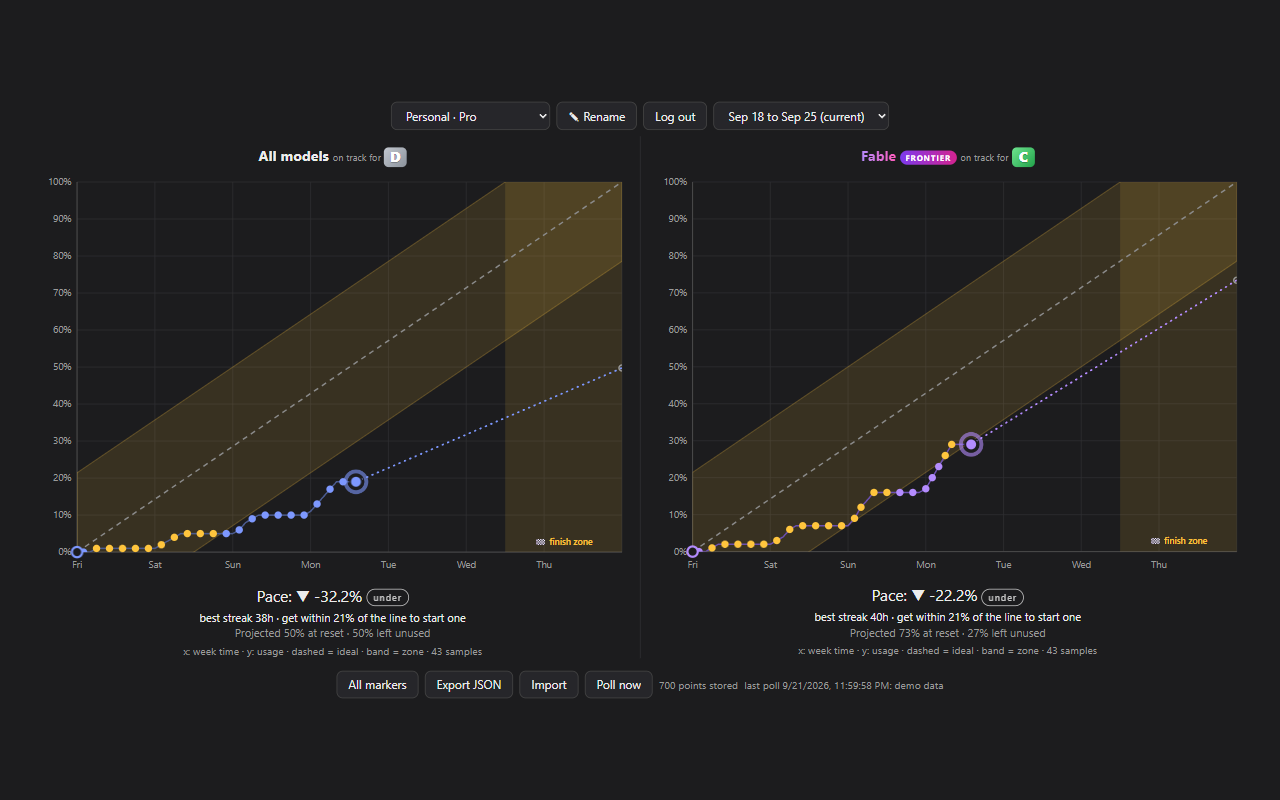
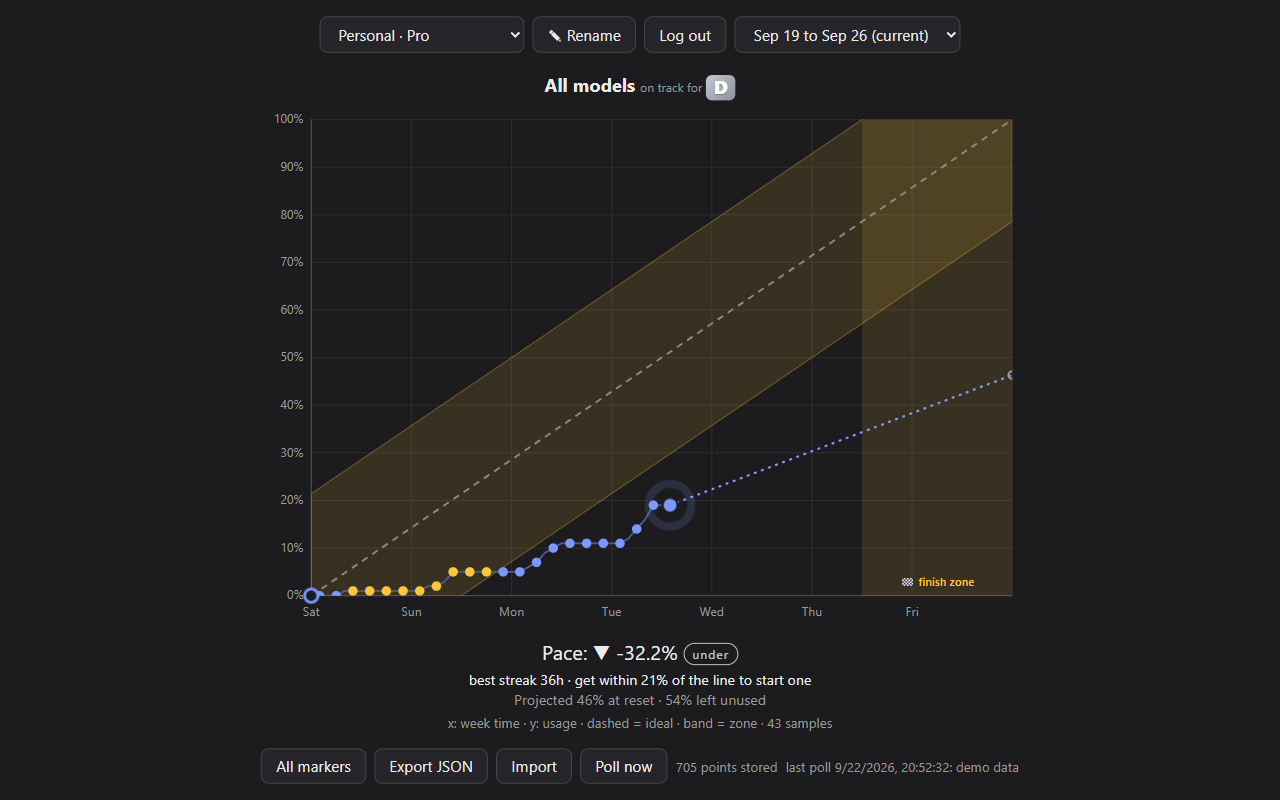
Fix lost accounts, hide Fable, use 24h times

diff --git a/dev/test_poll.js b/dev/test_poll.js
@@ -35,6 +35,7 @@ const web = {}; // webRequest listeners
 let reqId = 0;
 let rotate = null; // { from, to }: the server reissues `from` on its next request, and `from` then dies
 let botCheck = false; // every request gets an HTML 403, like a Cloudflare challenge
+let loginTo = null; // the browser signs in to this key right before the next plain request (a login landing mid-poll)
 const tabs = { reloaded: 0, created: [], updated: [] };
 const logouts = []; // keys the server was asked to log out
 const sessionOf = opts => {
@@ -53,6 +54,11 @@ const ctx = {
     const JSON_TYPE = { get: h => (h.toLowerCase() === 'content-type' ? 'application/json' : null) };
     const json = body => ({ ok: true, status: 200, headers: JSON_TYPE, json: async () => body });
     if (botCheck) return { ok: false, status: 403, headers: { get: () => 'text/html' }, json: async () => { throw new Error('html'); } };
+    if (loginTo && opts?.credentials !== 'omit') {
+      jars[0].sessionKey = loginTo;
+      listeners.cookie({ removed: false, cookie: { name: 'sessionKey', domain: '.claude.ai', value: loginTo } });
+      loginTo = null;
+    }
     const requestId = String(++reqId);
     const initiator = 'chrome-extension://extid';
     web.before({ requestId, initiator, url });
@@ -289,10 +295,15 @@ const poll = () => new Promise(res => listeners.message('poll', {}, res));
   assert(!store.sessions[1].failedSince, 'working again: no longer marked');
   delete jars[1];
 
-  // the same account under a newer key in the browser: the older saved key is dropped
+  // the same account under a newer key in the browser: the older saved key stays while it works (only a refusal or
+  // "Log out" removes a key), and once claude.ai refuses it, it is dropped silently as an older key of a working one
   jars[0].sessionKey = 'sk-a2';
   const m4 = await tick();
   assert(m4.ok, m4.msg);
+  assert.deepStrictEqual(store.sessions.map(s => s.key), ['sk-a2', 'sk-2', 'sk-a']);
+  delete live['sk-a'];
+  const m4b = await tick();
+  assert(m4b.ok && m4b.msg === 'ok', m4b.msg);
   assert.deepStrictEqual(store.sessions.map(s => s.key), ['sk-a2', 'sk-2']);
 
   // claude.ai reissues the saved key during a poll: the new key replaces it and keeps working
@@ -416,6 +427,23 @@ const poll = () => new Promise(res => listeners.message('poll', {}, res));
   const d1 = await tick();
   assert.strictEqual(d1.msg, 'ok; Boss: signed out (log in to it again, or Log out to hide it)');
   assert.deepStrictEqual(store.sessions.map(s => s.key).sort(), ['bx1', 'sk-2b', 'sk-a3']);
+
+  // a login to another account landing mid-poll: the old login's key keeps its own orgs, the new login is polled
+  // right after, and a later refusal of the old key is still reported, never dropped as an older key of the new one
+  store.sessions = store.sessions.filter(s => s.key !== 'bx1');
+  jars[0].sessionKey = 'sk-2b';
+  await tick();
+  loginTo = 'sk-a3';
+  await tick();
+  await new Promise(r => setTimeout(r, 20));
+  const orgsOf = k => store.sessions.find(s => s.key === k)?.orgIds.join();
+  assert.strictEqual(orgsOf('sk-2b'), 'org-d');
+  assert.strictEqual(orgsOf('sk-a3'), 'org-a,org-b,org-c');
+  delete live['sk-2b'];
+  const f1 = await tick();
+  assert(/Alt: signed out/.test(f1.msg), f1.msg);
+  assert.strictEqual(orgsOf('sk-2b'), 'org-d');
+  live['sk-2b'] = 'two';
 
   console.log('poll tests passed');
 })().catch(e => { console.error(e); process.exit(1); });

diff --git a/extension/background.js b/extension/background.js
@@ -56,8 +56,12 @@ async function getJson(url, credentials = 'include') {
 // browser signs in to another. Keys stay in local extension storage and are never exported.
 
 // A login in any window is polled right away, so its key is saved before the browser moves to another account.
+// One landing during a poll gets a poll of its own after it: the running one read the cookies before it.
 chrome.cookies?.onChanged.addListener(({ cookie, removed }) => {
-  if (!removed && cookie.name === SESSION_COOKIE && /(^|\.)claude\.ai$/.test(cookie.domain)) poll();
+  if (!removed && cookie.name === SESSION_COOKIE && /(^|\.)claude\.ai$/.test(cookie.domain)) {
+    if (inFlight) pollAgain = true;
+    poll();
+  }
 });
 
 // Which saved accounts claude.ai refuses, for "(signed out)" in the chart's account menu (no keys leave the worker).
@@ -227,8 +231,12 @@ async function withSession(key, fn) {
 let chain = Promise.resolve();
 const serial = fn => { const r = chain.then(fn); chain = r.catch(() => {}); return r; };
 let inFlight = null;
+let pollAgain = false;
 function poll() {
-  inFlight ??= serial(pollOnce).finally(() => { inFlight = null; });
+  inFlight ??= serial(pollOnce).finally(() => {
+    inFlight = null;
+    if (pollAgain) { pollAgain = false; poll(); }
+  });
   return inFlight;
 }
 const importData = data => serial(() => importOnce(data));
@@ -255,8 +263,16 @@ async function pollOnce() {
       const old = saved.find(s => s.key === run.key);
       try {
         const acct = run.plain ? await pollAccount(getJson, data) : await withSession(run.key, get => pollAccount(get, data));
-        // A saved key whose orgs were all read already is the same account under an older key: dropped.
-        if (run.key && (run.plain || acct.tried)) {
+        // The browser's login changed during the poll: what was read may belong to the new login, not to run.key.
+        // The points stand (they carry their org), but pairing run.key with those orgs would let a later refusal of
+        // it drop it silently as an older key of the new account. Kept as it was; the next poll reads both.
+        if (run.plain && run.key && (await browserKeys()).main !== run.key) {
+          sessions.push(old || { key: run.key, name: '', orgIds: [] });
+          continue;
+        }
+        // Every working key is kept, also a second login of an account read already: only claude.ai refusing a
+        // key (below) or the user's "Log out" removes one, so no live account can drop off the list unnoticed.
+        if (run.key) {
           sessions.push({ key: run.key, name: acct.name || old?.name || '', orgIds: acct.orgIds });
         }
         // signed in again after "Log out": back in the list
@@ -369,7 +385,7 @@ async function pollAccount(get, data) {
     const msgs = errors.splice(errors.length - failures.length);
     throw Object.assign(new Error(msgs.join('; ')), { auth: failures.every(e => e.auth) });
   }
-  return { name, orgIds: targets.map(o => o.uuid || o.id), tried };
+  return { name, orgIds: targets.map(o => o.uuid || o.id) };
 }
 
 // An export file from the chart page: { points, orgNames, orgPlans, orgUsers, orgAliases } or a bare points array.

diff --git a/extension/chart.js b/extension/chart.js
@@ -2,6 +2,9 @@ const HOUR = 36e5;
 const UNUSED_WARN = 5; // projected % left unused at the reset above which the line turns red
 const NS = 'http://www.w3.org/2000/svg';
 const PANEL_W = 796; // design width of one chart: .panel max-width plus its side padding
+// Series still polled and stored but not drawn (case-insensitive). Remove a name to bring its chart back with its
+// full history; the frontier look in panel() and chart.html stays for that.
+const HIDDEN_SERIES = ['Fable'];
 // orgNames, orgPlans and orgUsers (the signed-in person's name) come from claude.ai; orgAliases are names the
 // user typed and win over everything.
 const ORG_MAPS = ['orgNames', 'orgPlans', 'orgUsers', 'orgAliases'];
@@ -62,7 +65,7 @@ function orgs() {
 function showStatus(s) {
   const el = $('status');
   if (!s) { el.textContent = 'no poll yet'; return; }
-  el.textContent = `last poll ${new Date(s.t).toLocaleString()}: ${s.msg}`;
+  el.textContent = `last poll ${new Date(s.t).toLocaleString(undefined, { hourCycle: 'h23' })}: ${s.msg}`;
   el.classList.toggle('bad', !s.ok);
 }
 
@@ -139,6 +142,7 @@ function render() {
   const reset = ws[weekIdx];
   const inWeek = orgPts.filter(p => Math.abs(p.reset - reset) < 6 * HOUR);
   const keys = [...new Set(inWeek.map(p => p.key))]
+    .filter(k => !HIDDEN_SERIES.some(h => h.toLowerCase() === k.toLowerCase()))
     .sort((a, b) => (a === 'All models' ? -1 : b === 'All models' ? 1 : a.localeCompare(b)));
   for (const k of keys) {
     const pts = inWeek.filter(p => p.key === k).sort((a, b) => a.t - b.t);
@@ -374,7 +378,7 @@ function fmtDur(ms) {
   return `${(h / 24).toFixed(1)}d`;
 }
 
-const fmtWhen = t => new Date(t).toLocaleString(undefined, { weekday: 'short', month: 'short', day: 'numeric', hour: '2-digit', minute: '2-digit' });
+const fmtWhen = t => new Date(t).toLocaleString(undefined, { weekday: 'short', month: 'short', day: 'numeric', hour: '2-digit', minute: '2-digit', hourCycle: 'h23' });
 
 // Hovering anywhere over the plot snaps to the nearest sample and shows its exact value.
 function hover(div, svg, pts, X, Y, box, end, start, cash) {
@@ -410,7 +414,7 @@ function hover(div, svg, pts, X, Y, box, end, start, cash) {
     tip.children[0].textContent = cash ? `${cash(best.pct)} · ${fmtPct(best.pct)}` : fmtPct(best.pct);
     tip.children[0].className = `tip-${z}`;
     tip.children[1].textContent = new Date(best.t).toLocaleString(undefined,
-      { weekday: 'short', month: 'short', day: 'numeric', hour: '2-digit', minute: '2-digit' });
+      { weekday: 'short', month: 'short', day: 'numeric', hour: '2-digit', minute: '2-digit', hourCycle: 'h23' });
     tip.children[2].textContent = best.anchor ? `${cash ? 'month' : 'week'} start: usage resets to 0`
       : `ideal ${ideal.toFixed(1)}% · ${d > 0 ? '+' : ''}${d.toFixed(1)}%` + (z === 'zone' ? ' · in the zone' : '');
     tip.style.display = 'block';

diff --git a/README.md b/README.md
@@ -4,11 +4,11 @@ Unofficial Chrome extension (MV3). Polls claude.ai weekly limits every 10 minute
 
 ## What it looks like
 
-**Rank S: the ideal week.** The flat stretches are the hours away from work. Usage drifts under the dashed ideal line (blue dots, violet on Fable), overshoots it (red), comes back within a day and a half of pace of it (gold, "in the zone": 21 points on a week) and reaches 100% in the finish zone, the last 36 hours before the reset (where the zone band reaches 100%, so finishing needs no late night). Nothing left unused, nothing blocked early. Ending at 95% or more without being blocked is S too.
+**Rank S: the ideal week.** The flat stretches are the hours away from work. Usage drifts under the dashed ideal line (blue dots), overshoots it (red), comes back within a day and a half of pace of it (gold, "in the zone": 21 points on a week) and reaches 100% in the finish zone, the last 36 hours before the reset (where the zone band reaches 100%, so finishing needs no late night). Nothing left unused, nothing blocked early. Ending at 95% or more without being blocked is S too.
 
 ![Rank S: usage wanders under, over and back into the zone, then hits 100% in the finish zone](docs/rank-s.png)
 
-**Rank A: ran out early.** Usage climbs faster than the line (red dots) and hits 100% 40 hours before the reset, so the limit blocks part of the last days. A blocked week never ranks S, and the blocked stretch costs half its share of the week (the Fable chart here, 3.7 days early: B).
+**Rank A: ran out early.** Usage climbs faster than the line (red dots) and hits 100% 40 hours before the reset, so the limit blocks part of the last days. A blocked week never ranks S, and the blocked stretch costs half its share of the week.
 
 **How the rank works.** Score = usage at the reset, minus half the share of the period the limit blocked before the finish window. Unused quota is wasted; hitting the limit early wastes none of it but stops work, so it costs half. S 95+, A 90+, B 75+, C 50+, else D. Hover the rank chip for the score.
 
@@ -44,7 +44,7 @@ Logging in to another account in an Incognito window also works (turn on "Allow 
 
 ## Layout
 
-* `extension/`: the unpacked extension. `manifest.json`, `background.js` (poller), `parse.js` (usage payload parser, import merge), `pace.js` (ideal line, zone, finish window, rank maths), `chart.html` + `chart.js` (chart page), `icons/`
+* `extension/`: the unpacked extension. `manifest.json`, `background.js` (poller), `parse.js` (usage payload parser, import merge), `pace.js` (ideal line, zone, finish window, rank maths), `chart.html` + `chart.js` (chart page; `HIDDEN_SERIES` lists limits that are recorded but not drawn, Fable today), `icons/`
 * `dev/`: `test_parse.js`, `test_pace.js` (run under several TZ values), `test_poll.js` (background.js against a fake claude.ai: two weekly orgs, one monthly, several accounts), `test_chrome_multi.js` (the several-accounts plumbing in a real Chrome for Testing against a local fake claude.ai; needs Chrome for Testing and openssl, Windows path), `demo.html` (chart with fake data), `promo.html` (store tile source), `make_icons.py`, `build.py`
 * `docs/`: README screenshots
 * `store/`: listing copy, privacy policy, store images

diff --git a/store/LISTING.md b/store/LISTING.md
@@ -15,7 +15,7 @@ Unofficial. Charts your claude.ai weekly limits over time against the ideal pace
 
 See how fast you are using your Claude weekly limits, not just where they stand right now.
 
-The extension records your claude.ai weekly usage every 10 minutes and draws one chart per limit (All models, plus per-model caps such as Fable). A dashed line shows the ideal pace, where usage would reach 100% exactly at the reset.
+The extension records your claude.ai weekly usage every 10 minutes and draws your All models limit as a chart (the Fable cap is recorded too, not drawn). A dashed line shows the ideal pace, where usage would reach 100% exactly at the reset.
 
 * Pace figure: how far ahead of or behind the ideal pace you are
 * Hover any point to see the exact percentage, time, and ideal value
